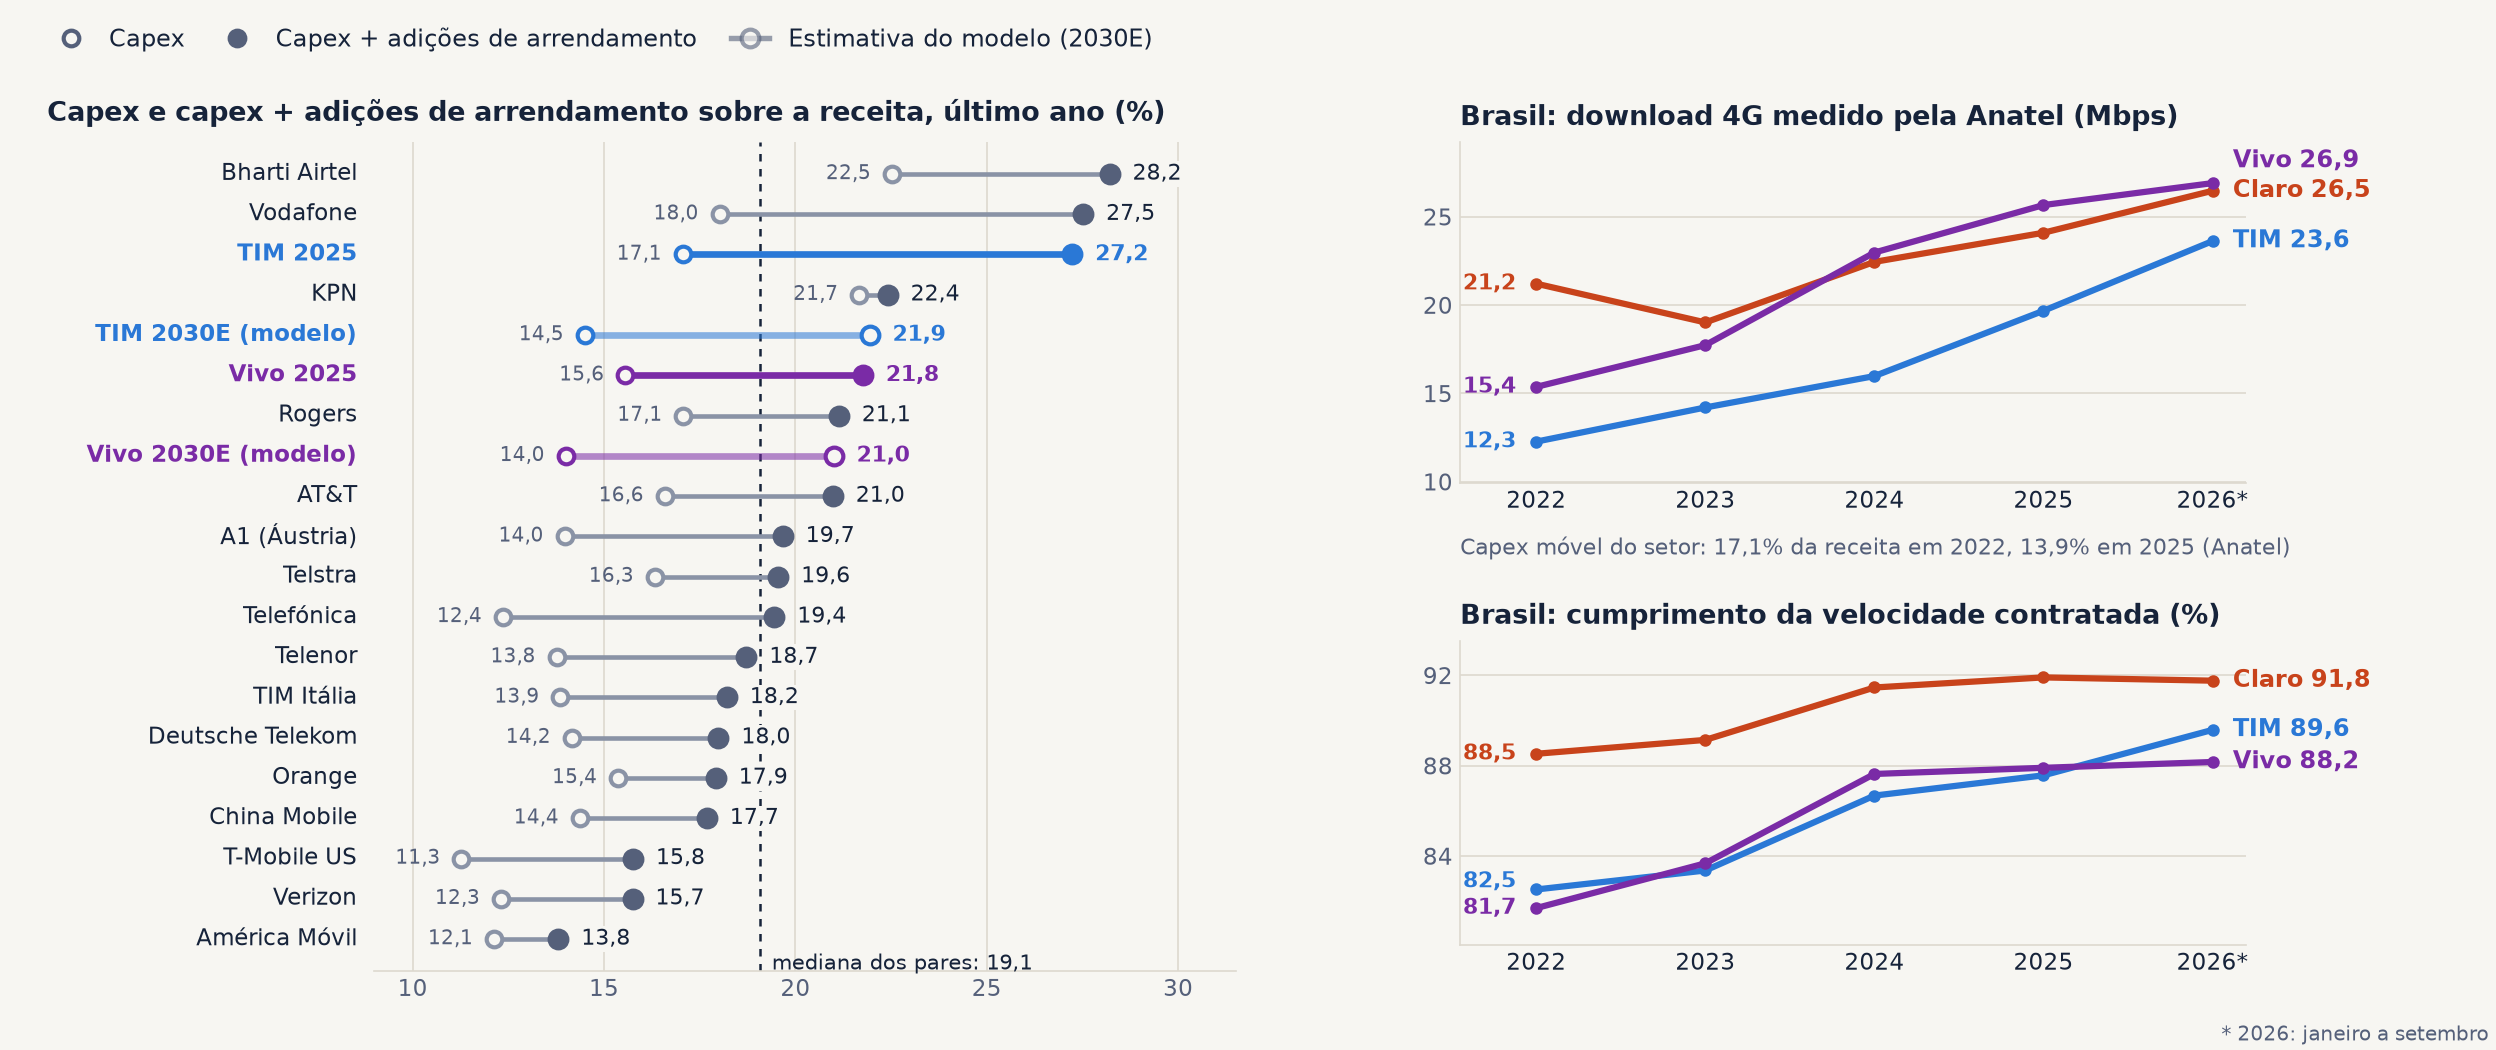
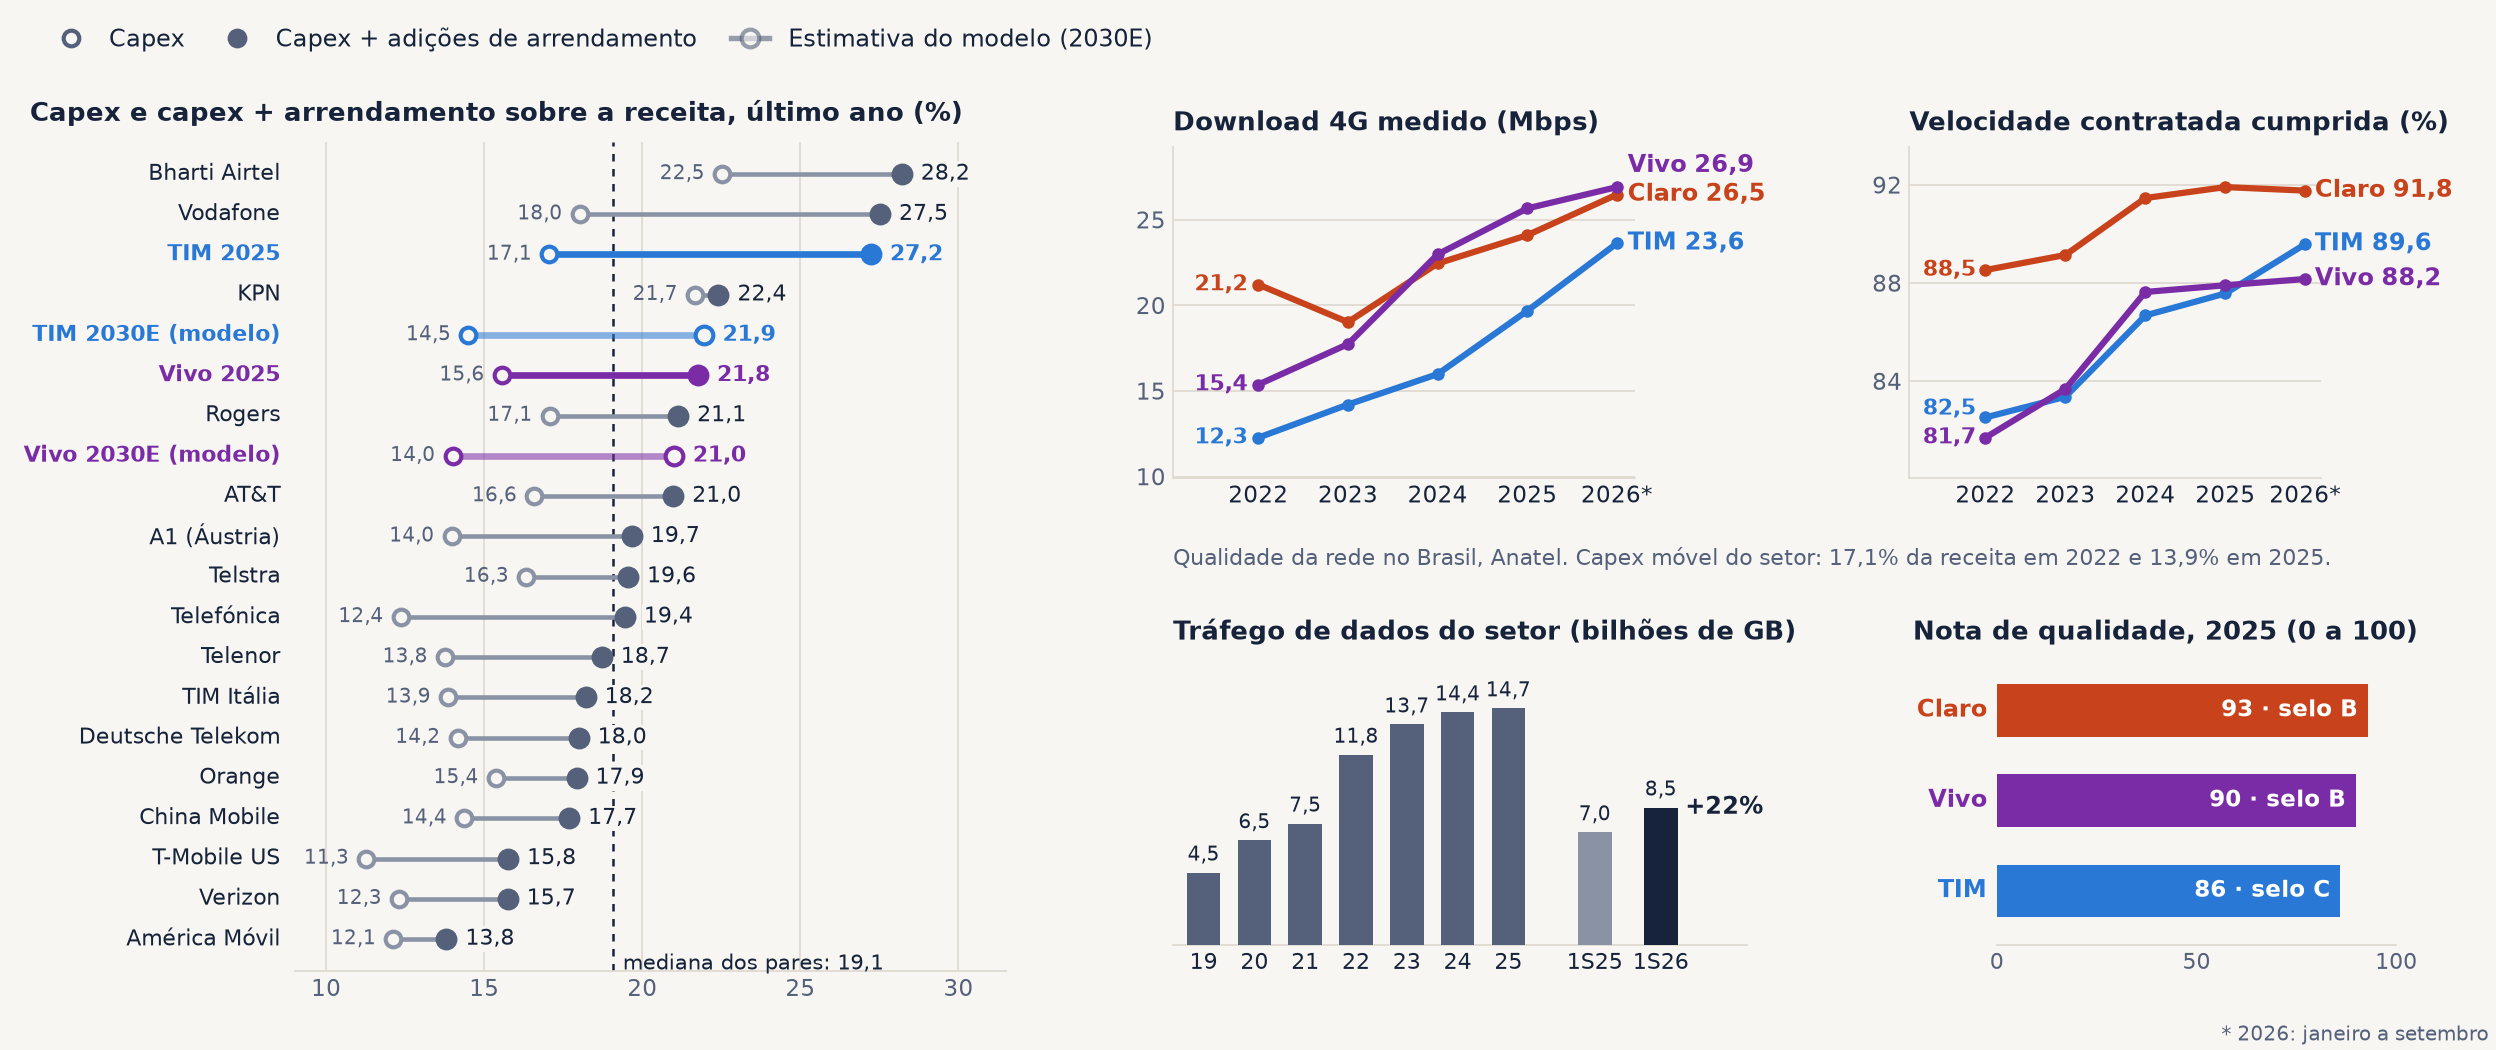
v5.3 - 24/11/2026 22:28 - slides 11 e 12: emissao do 4T26 e qualidade
Slide 11: emissao de arrendamento da Vivo em 5,4 bi em 2026E (4T26 no nivel
anterior) e 7,0% da receita depois (VivoMOD v21). Slide 12: entram o trafego
de dados do setor e a nota de qualidade de 2025.

diff --git a/index.html b/index.html
@@ -40,7 +40,7 @@ h1, h2, h3 { font-family:'Space Grotesk', Arial, sans-serif; }
 <div id="palco">
 <section id="capa" class="capa" data-transition="fade">
 <div>
-<p class="chip">v5.2 · 24/11/2026 22:23</p>
+<p class="chip">v5.3 · 24/11/2026 22:28</p>
 </div>
 <div>
 <h1>Telecom Brasil: Vivo e TIM</h1>
@@ -116,14 +116,14 @@ h1, h2, h3 { font-family:'Space Grotesk', Arial, sans-serif; }
 <h2 class="titulo">Com a emissão de arrendamento, o investimento é 21,8% da receita na Vivo e 27,2% na TIM em 2025; o modelo vai a 21,0% e 21,9%, perto das casas</h2>
 <img class="graf" src="img/v7b_capex_emissao.png" alt="Quatro gráficos de 2019 a 2030 estimado, Vivo e TIM na mesma escala. Em cima, capex e emissão de arrendamento sobre a receita líquida, empilhados, com a linha do total, a estimativa do modelo e a média das casas que projetam a emissão. Embaixo, capex e emissão de arrendamento em bilhões de reais nominais, em barras empilhadas, com o total em cima de cada barra e a média das mesmas casas">
 <p class="fonte">Fonte: planilhas de RI e modelos de 24/11/2026. Capex sem licenças; emissão = adições de arrendamento do ano (IFRS 16, desde 2019). Casas*: só as que projetam a emissão (Itaú BBA e Santander na Vivo, Itaú BBA na TIM).</p>
-<aside>Capex mais emissão de arrendamento sobre a receita. Vivo: 23,9% em 2019, 28,4% em 2020, 26,8% em 2021, 26,6% em 2022, 25,6% em 2023, 25,0% em 2024 e 21,8% em 2025; a emissão sozinha foi 4,0%, 10,3%, 7,1%, 6,7%, 8,4%, 8,5% e 6,2% da receita, e 9,2% nos 12 meses até o 3T26. Em reais: de R$ 10,6 bilhões em 2019 para R$ 13,9 bilhões em 2024 e R$ 13,0 bilhões em 2025, com a emissão indo de R$ 1,8 bilhão para R$ 4,8 bilhões e R$ 3,7 bilhões. Premissa nova de 24/11/2026: emissão de R$ 4,5 bilhões em 2026E (os nove meses somam R$ 3,65 bilhões, com R$ 2,4 bilhões no 3T26; fechar em R$ 4,5 bilhões pede um 4T26 de R$ 0,85 bilhão, contra cerca de R$ 2,2 bilhões em cada um dos três últimos quartos trimestres) e 7,0% da receita de 2027E em diante (antes 8,5%). Total de 21,9% em 2026E e 21,0% de 2027E a 2030E, de R$ 14,0 bilhões para R$ 16,8 bilhões. As duas casas que projetam a emissão (Itaú BBA e Santander) ficam em 21,8%, 20,7%, 20,4%, 20,1% e 19,8% na média, com emissão perto de 6% da receita e total de R$ 15,3 bilhões em 2030E; o modelo fica 1,2 ponto e R$ 1,5 bilhão acima em 2030E. TIM: 32,4% em 2019, 30,8% em 2020, 33,1% em 2021, 31,1% em 2022, 29,3% em 2023, 27,7% em 2024 e 27,2% em 2025; a emissão foi 10,2%, 8,3%, 8,8%, 9,2%, 10,4%, 9,8% e 10,2% da receita. Em reais: de R$ 5,6 bilhões em 2019 para R$ 7,3 bilhões em 2025, com a emissão indo de R$ 1,8 bilhão para R$ 2,7 bilhões. Premissa nova de 24/11/2026: emissão de R$ 2,3 bilhões em 2026E (os nove meses somam R$ 1,66 bilhão; 4T26 de R$ 0,64 bilhão, igual ao 4T25) e crescimento de 2,5% ao ano depois, metade do ritmo da receita (antes crescia com a receita móvel). A emissão cai de 10,2% da receita em 2025 para 8,2% em 2026E e 7,4% em 2030E; total de 24,5% em 2026E, 23,3% em 2027E e 21,9% em 2030E, com R$ 6,9 bilhões parados de 2026E a 2028E e R$ 7,5 bilhões em 2030E. O Itaú BBA, única casa que projeta a emissão da TIM, fica em 23,4%, 23,4%, 22,9%, 22,5% e 23,0%, com emissão de 7,5% da receita e total de R$ 7,5 bilhões em 2030E; o modelo fica 1,1 ponto abaixo em 2030E (capex 1,1 ponto menor, emissão igual) e igual em reais, porque a receita do modelo é maior. Leitura: de 2019 a 2025 o capex sobre a receita caiu 4,4 pontos na Vivo e 5,1 na TIM, mas o total com arrendamento caiu 2,1 e 5,2 pontos; na Vivo, metade da queda do capex foi trocada por arrendamento, e nos 12 meses até o 3T26 o total (24,4%) está acima de 2019. A emissão é volátil de um ano para o outro, mistura contrato novo com renovação e reajuste e não pega contrato de serviço; vale mais a média de alguns anos que o ano isolado (Vivo 2021 a 2025: 7,4% da receita; TIM: 9,7%).</aside>
+<aside>Capex mais emissão de arrendamento sobre a receita. Vivo: 23,9% em 2019, 28,4% em 2020, 26,8% em 2021, 26,6% em 2022, 25,6% em 2023, 25,0% em 2024 e 21,8% em 2025; a emissão sozinha foi 4,0%, 10,3%, 7,1%, 6,7%, 8,4%, 8,5% e 6,2% da receita, e 9,2% nos 12 meses até o 3T26. Em reais: de R$ 10,6 bilhões em 2019 para R$ 13,9 bilhões em 2024 e R$ 13,0 bilhões em 2025, com a emissão indo de R$ 1,8 bilhão para R$ 4,8 bilhões e R$ 3,7 bilhões. Premissa de 24/11/2026: em 2026E a emissão fica em R$ 5,4 bilhões, 8,5% da receita (os nove meses somam R$ 3,65 bilhões, com R$ 2,4 bilhões no 3T26, e o 4T26 entra com R$ 1,8 bilhão; os três últimos quartos trimestres foram de cerca de R$ 2,2 bilhões cada), e cai para 7,0% da receita de 2027E em diante (antes 8,5%). Total de 23,4% em 2026E e 21,0% de 2027E a 2030E; em reais, R$ 14,9 bilhões em 2026E, R$ 14,2 bilhões em 2027E e R$ 16,8 bilhões em 2030E. As duas casas que projetam a emissão (Itaú BBA e Santander) ficam em 21,8%, 20,7%, 20,4%, 20,1% e 19,8% na média, com emissão perto de 6% da receita e total de R$ 15,3 bilhões em 2030E; o modelo fica 1,2 ponto e R$ 1,5 bilhão acima em 2030E. TIM: 32,4% em 2019, 30,8% em 2020, 33,1% em 2021, 31,1% em 2022, 29,3% em 2023, 27,7% em 2024 e 27,2% em 2025; a emissão foi 10,2%, 8,3%, 8,8%, 9,2%, 10,4%, 9,8% e 10,2% da receita. Em reais: de R$ 5,6 bilhões em 2019 para R$ 7,3 bilhões em 2025, com a emissão indo de R$ 1,8 bilhão para R$ 2,7 bilhões. Premissa nova de 24/11/2026: emissão de R$ 2,3 bilhões em 2026E (os nove meses somam R$ 1,66 bilhão; 4T26 de R$ 0,64 bilhão, igual ao 4T25) e crescimento de 2,5% ao ano depois, metade do ritmo da receita (antes crescia com a receita móvel). A emissão cai de 10,2% da receita em 2025 para 8,2% em 2026E e 7,4% em 2030E; total de 24,5% em 2026E, 23,3% em 2027E e 21,9% em 2030E, com R$ 6,9 bilhões parados de 2026E a 2028E e R$ 7,5 bilhões em 2030E. O Itaú BBA, única casa que projeta a emissão da TIM, fica em 23,4%, 23,4%, 22,9%, 22,5% e 23,0%, com emissão de 7,5% da receita e total de R$ 7,5 bilhões em 2030E; o modelo fica 1,1 ponto abaixo em 2030E (capex 1,1 ponto menor, emissão igual) e igual em reais, porque a receita do modelo é maior. Leitura: de 2019 a 2025 o capex sobre a receita caiu 4,4 pontos na Vivo e 5,1 na TIM, mas o total com arrendamento caiu 2,1 e 5,2 pontos; na Vivo, metade da queda do capex foi trocada por arrendamento, e nos 12 meses até o 3T26 o total (24,4%) está acima de 2019. A emissão é volátil de um ano para o outro, mistura contrato novo com renovação e reajuste e não pega contrato de serviço; vale mais a média de alguns anos que o ano isolado (Vivo 2021 a 2025: 7,4% da receita; TIM: 9,7%).</aside>
 </section>
 <section id="pares-qualidade" data-transition="fade">
 <p class="olho">4 · INVESTIMENTO CONTRA OS PARES DE FORA E QUALIDADE DA REDE NO BRASIL</p>
 <h2 class="titulo">Vivo e TIM investem acima dos pares de fora (21,8% e 27,2% da receita contra 19,1%) e a rede melhora: 4G de 12-21 para 24-27 Mbps desde 2022</h2>
-<img class="graf" src="img/v8_pares_qualidade.png" alt="À esquerda, capex e capex mais adições de arrendamento sobre a receita no último ano fiscal de dezesseis operadoras de fora, com a mediana, contra Vivo e TIM em 2025 e na estimativa do modelo para 2030. À direita, dois gráficos da Anatel de 2022 a 2026 para Vivo, TIM e Claro: download 4G medido, em Mbps, e cumprimento da velocidade contratada, em percentual">
+<img class="graf" src="img/v8_pares_qualidade.png" alt="À esquerda, capex e capex mais adições de arrendamento sobre a receita no último ano fiscal de dezesseis operadoras de fora, com a mediana, contra Vivo e TIM em 2025 e na estimativa do modelo para 2030. À direita, quatro gráficos da Anatel: download 4G medido, em Mbps, e cumprimento da velocidade contratada, em percentual, de 2022 a 2026 para Vivo, TIM e Claro; tráfego de dados do setor em bilhões de GB de 2019 a 2025 e no primeiro semestre de 2025 e de 2026; e a nota de qualidade de 2025 das três operadoras">
 <p class="fonte">Fonte: relatórios das companhias (levantamento de 18/11/2026, último ano fiscal), dados abertos da Anatel e modelos de 24/11/2026. Download 4G e cumprimento de velocidade: resultado dos municípios ponderado pelos acessos.</p>
-<aside>Pares de fora, capex sem espectro e capex mais adições de arrendamento sobre a receita, 2025 ou último ano fiscal: América Móvil 12,1% e 13,8%; Verizon 12,3% e 15,7%; T-Mobile US 11,3% e 15,8%; China Mobile 14,4% e 17,7%; Orange 15,4% e 17,9%; Deutsche Telekom (grupo, com os Estados Unidos) 14,2% e 18,0%; TIM Itália sem a rede fixa 13,9% e 18,2%; Telenor 13,8% e 18,7%; Telefónica 12,4% e 19,4%; Telstra 16,3% e 19,6%; A1 14,0% e 19,7%; AT&amp;T 16,6% e 21,0%; Rogers 17,1% e 21,1%; KPN 21,7% e 22,4%; Vodafone 18,0% e 27,5%; Bharti Airtel 22,5% e 28,2%. Mediana de 14,3% no capex e 19,1% no total. Brasil: Vivo 15,6% e 21,8% em 2025; TIM 17,1% e 27,2%. O capex fica 1 a 3 pontos acima da mediana; o que afasta o Brasil é o arrendamento, 6% a 10% da receita contra 3% a 7% lá fora. Modelo em 2030E: Vivo 14,0% e 21,0%; TIM 14,5% e 21,9%, ou seja, 2 a 3 pontos acima da mediana de hoje, na altura de AT&amp;T e Rogers. A adição de arrendamento oscila de um ano para o outro: na média de três anos a mediana dos pares é a mesma (19,1%), a Vivo fica em 24,1% e a TIM em 28,1%. Fora da amostra: Millicom e Swisscom, com 2025 distorcido por adições fora do padrão, e a Claro, que só tem o arrendamento pago na CVM (26,3% da receita com o capex em 2025). Qualidade da rede, Anatel, 2022 a 2026 (janeiro a setembro). Download 4G medido: Vivo 15,4, 17,7, 23,0, 25,7 e 26,9 Mbps; TIM 12,3, 14,2, 16,0, 19,7 e 23,6; Claro 21,2, 19,0, 22,4, 24,1 e 26,5. Cumprimento da velocidade contratada (indicador 4 do regulamento de qualidade): Vivo de 81,7% para 88,2%; TIM de 82,5% para 89,6%; Claro de 88,5% para 91,8%; a referência do indicador mudou em 2025 e o número recua cerca de 1 ponto no 1T25 nas três. No mesmo período o capex alocado ao móvel pelo setor caiu de 17,1% para 13,9% da receita (base de indicadores econômicos da Anatel, pode incluir licenças). Estações licenciadas: Vivo de 30,2 mil para 39,2 mil, TIM de 26,9 mil para 37,2 mil, Claro de 23,0 mil para 32,9 mil. Leitura: não há sinal de perda de qualidade com o capex caindo, o que sustenta o investimento menor dos modelos. Pontos de atenção: a nota de qualidade de 2025, único ano publicado, é 93 na Claro (selo B), 90 na Vivo (B) e 86 na TIM (C), e a latência da TIM piora desde 2024 (cumprimento de 91,4% para 88,7%); a TIM é a que tem a menor nota e é onde o modelo mais corta o investimento. O upload do 5G cai nas três desde 2023 e o tráfego de dados do setor subiu 22% no primeiro semestre de 2026. Não há comparação de qualidade com os pares de fora neste slide: a evidência é a tendência local. As definições de capex e de arrendamento variam entre companhias.</aside>
+<aside>Pares de fora, capex sem espectro e capex mais adições de arrendamento sobre a receita, 2025 ou último ano fiscal: América Móvil 12,1% e 13,8%; Verizon 12,3% e 15,7%; T-Mobile US 11,3% e 15,8%; China Mobile 14,4% e 17,7%; Orange 15,4% e 17,9%; Deutsche Telekom (grupo, com os Estados Unidos) 14,2% e 18,0%; TIM Itália sem a rede fixa 13,9% e 18,2%; Telenor 13,8% e 18,7%; Telefónica 12,4% e 19,4%; Telstra 16,3% e 19,6%; A1 14,0% e 19,7%; AT&amp;T 16,6% e 21,0%; Rogers 17,1% e 21,1%; KPN 21,7% e 22,4%; Vodafone 18,0% e 27,5%; Bharti Airtel 22,5% e 28,2%. Mediana de 14,3% no capex e 19,1% no total. Brasil: Vivo 15,6% e 21,8% em 2025; TIM 17,1% e 27,2%. O capex fica 1 a 3 pontos acima da mediana; o que afasta o Brasil é o arrendamento, 6% a 10% da receita contra 3% a 7% lá fora. Modelo em 2030E: Vivo 14,0% e 21,0%; TIM 14,5% e 21,9%, ou seja, 2 a 3 pontos acima da mediana de hoje, na altura de AT&amp;T e Rogers. A adição de arrendamento oscila de um ano para o outro: na média de três anos a mediana dos pares é a mesma (19,1%), a Vivo fica em 24,1% e a TIM em 28,1%. Fora da amostra: Millicom e Swisscom, com 2025 distorcido por adições fora do padrão, e a Claro, que só tem o arrendamento pago na CVM (26,3% da receita com o capex em 2025). Qualidade da rede, Anatel, 2022 a 2026 (janeiro a setembro). Download 4G medido: Vivo 15,4, 17,7, 23,0, 25,7 e 26,9 Mbps; TIM 12,3, 14,2, 16,0, 19,7 e 23,6; Claro 21,2, 19,0, 22,4, 24,1 e 26,5. Cumprimento da velocidade contratada (indicador 4 do regulamento de qualidade): Vivo de 81,7% para 88,2%; TIM de 82,5% para 89,6%; Claro de 88,5% para 91,8%; a referência do indicador mudou em 2025 e o número recua cerca de 1 ponto no 1T25 nas três. No mesmo período o capex alocado ao móvel pelo setor caiu de 17,1% para 13,9% da receita (base de indicadores econômicos da Anatel, pode incluir licenças). Estações licenciadas: Vivo de 30,2 mil para 39,2 mil, TIM de 26,9 mil para 37,2 mil, Claro de 23,0 mil para 32,9 mil. Leitura: não há sinal de perda de qualidade com o capex caindo, o que sustenta o investimento menor dos modelos. Pontos de atenção: a nota de qualidade de 2025, único ano publicado, é 93 na Claro (selo B), 90 na Vivo (B) e 86 na TIM (C), e a latência da TIM piora desde 2024 (cumprimento de 91,4% para 88,7%); a TIM é a que tem a menor nota e é onde o modelo mais corta o investimento. Tráfego de dados do setor (a Anatel não abre por operadora): 4,5 bilhões de GB em 2019, 6,5 em 2020, 7,5 em 2021, 11,8 em 2022, 13,7 em 2023, 14,4 em 2024 e 14,7 em 2025, ou seja, quase parado por três anos; no primeiro semestre de 2026 foram 8,5 bilhões contra 7,0 um ano antes (+22%), com o trimestre subindo de 3,4 bilhões no 1T25 para 4,4 no 2T26. É o número a acompanhar: a folga de rede que o slide mostra foi construída com tráfego parado. O upload do 5G cai nas três desde 2023. Não há comparação de qualidade com os pares de fora neste slide: a evidência é a tendência local. As definições de capex e de arrendamento variam entre companhias.</aside>
 </section>
 <section id="arrend" data-transition="fade">
 <p class="olho">4A · EMISSÃO DE ARRENDAMENTO × PAGAMENTO DE PRINCIPAL</p>

diff --git a/README.md b/README.md
@@ -1,3 +1,3 @@
 # Telecom Brasil: Vivo e TIM
 
-Deck de telecom (v5.2 · 24/11/2026 22:23): o setor contra a inflação e o PIB, receita, margem, EBITDA, capex e arrendamento, lucro, payout, Fistel e valuation de Vivo e TIM.
+Deck de telecom (v5.3 · 24/11/2026 22:28): o setor contra a inflação e o PIB, receita, margem, EBITDA, capex e arrendamento, lucro, payout, Fistel e valuation de Vivo e TIM.
